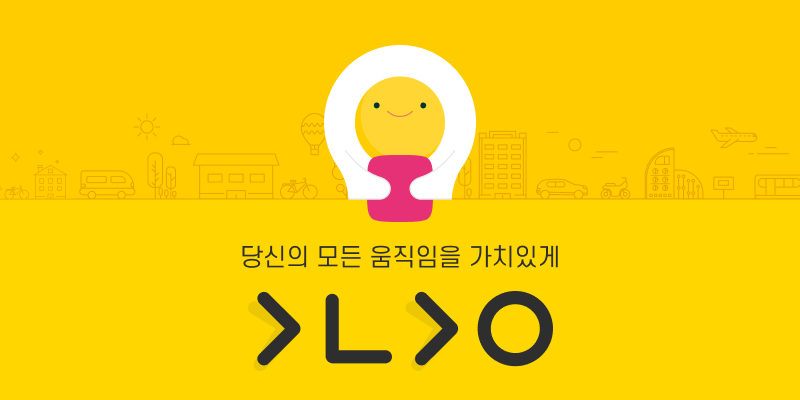
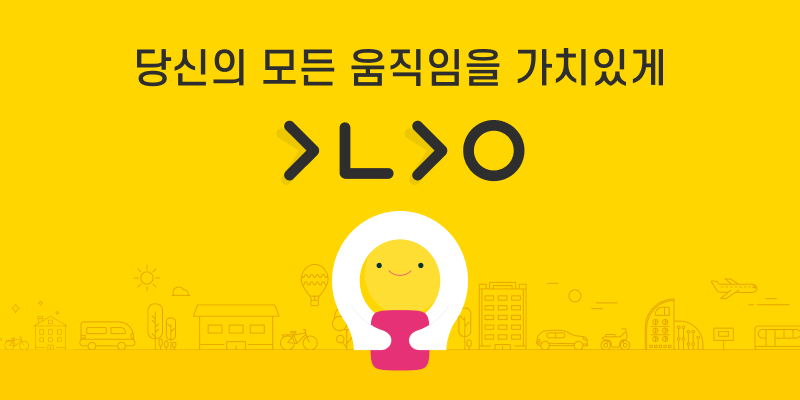
deeplink

diff --git a/css/main.scss b/css/main.scss
@@ -52,9 +52,8 @@ main {
       background: #FFF8DD;
       overflow: hidden;
       h1 {
-        position: fixed;
-        left: 10px;
-        top: 0;
+        //position: relative;
+        margin-left: calc(100% / 2 - 51px);
         z-index: 3;
         a {
           img {

diff --git a/css/style.css b/css/style.css
@@ -223,9 +223,7 @@ main .ani-box .con {
   overflow: hidden;
 }
 main .ani-box .con h1 {
-  position: fixed;
-  left: 10px;
-  top: 0;
+  margin-left: calc(50% - 51px);
   z-index: 3;
 }
 main .ani-box .con h1 a img {
